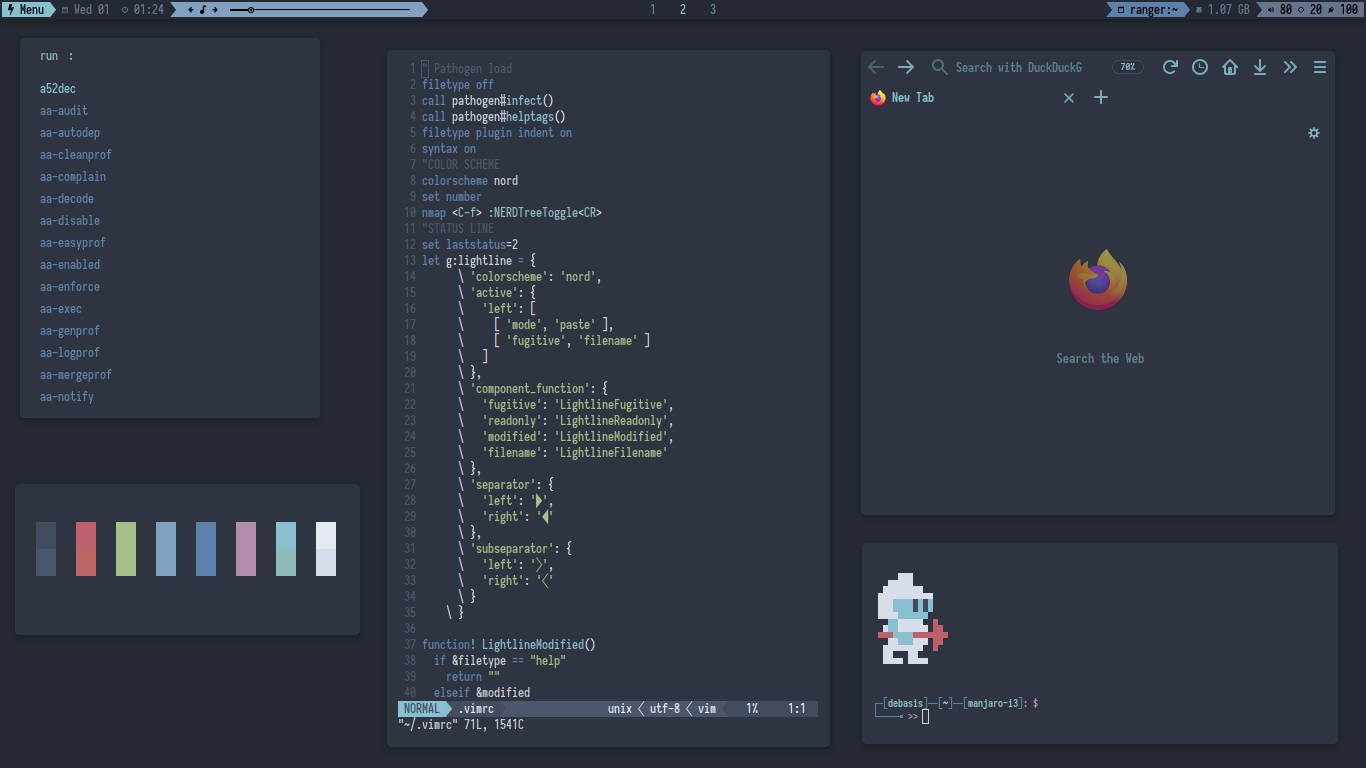
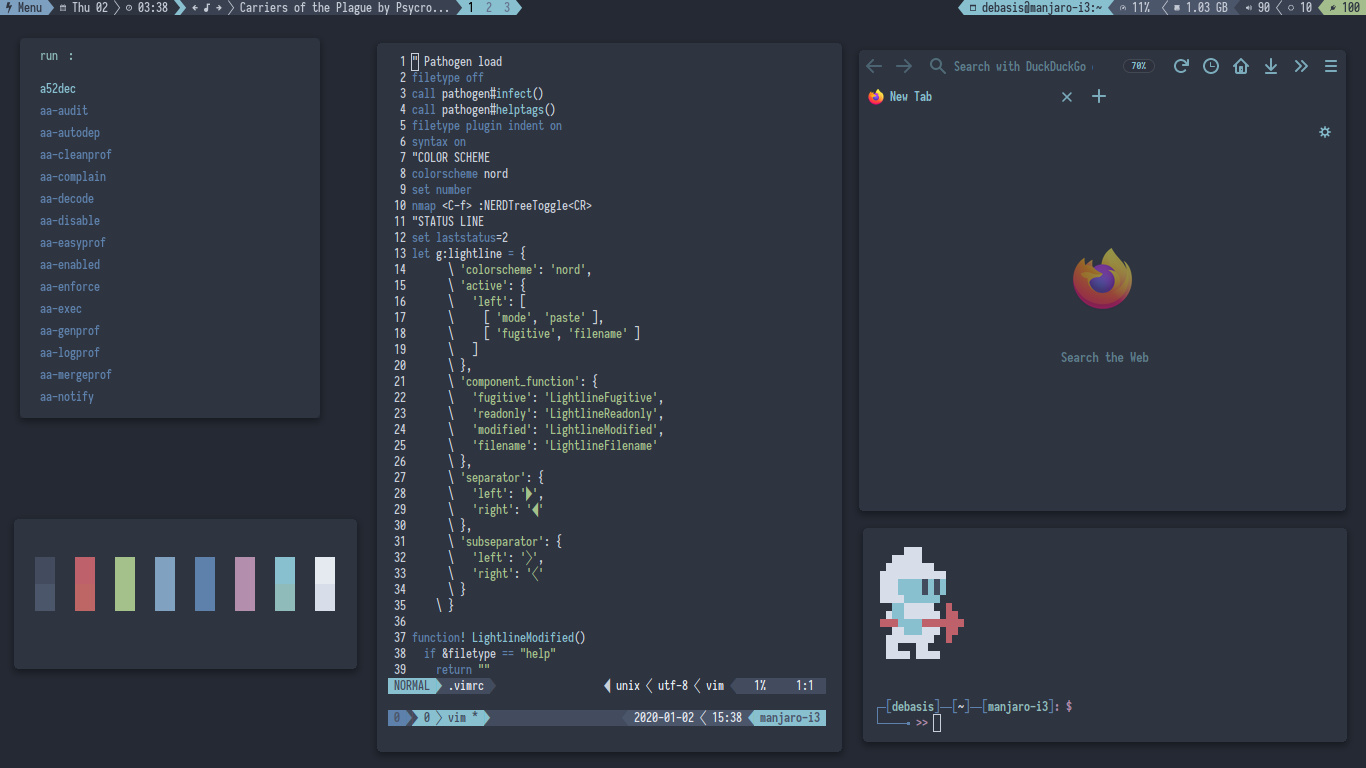
polybar final

diff --git a/README.md b/README.md
@@ -11,7 +11,6 @@ To be updated soon...
 ![1.](https://github.com/AnubisZ9/Global-Dark-Nordic-theme/blob/master/Dotfiles/previews/scrot1.png)
 ![2.](https://github.com/AnubisZ9/Global-Dark-Nordic-theme/blob/master/Dotfiles/previews/scrot2.png)
 ![3.](https://github.com/AnubisZ9/Global-Dark-Nordic-theme/blob/master/Dotfiles/previews/scrot3.png)
-![4.](https://github.com/AnubisZ9/Global-Dark-Nordic-theme/blob/master/Dotfiles/previews/scrot4.png)
 
 
 ## License
